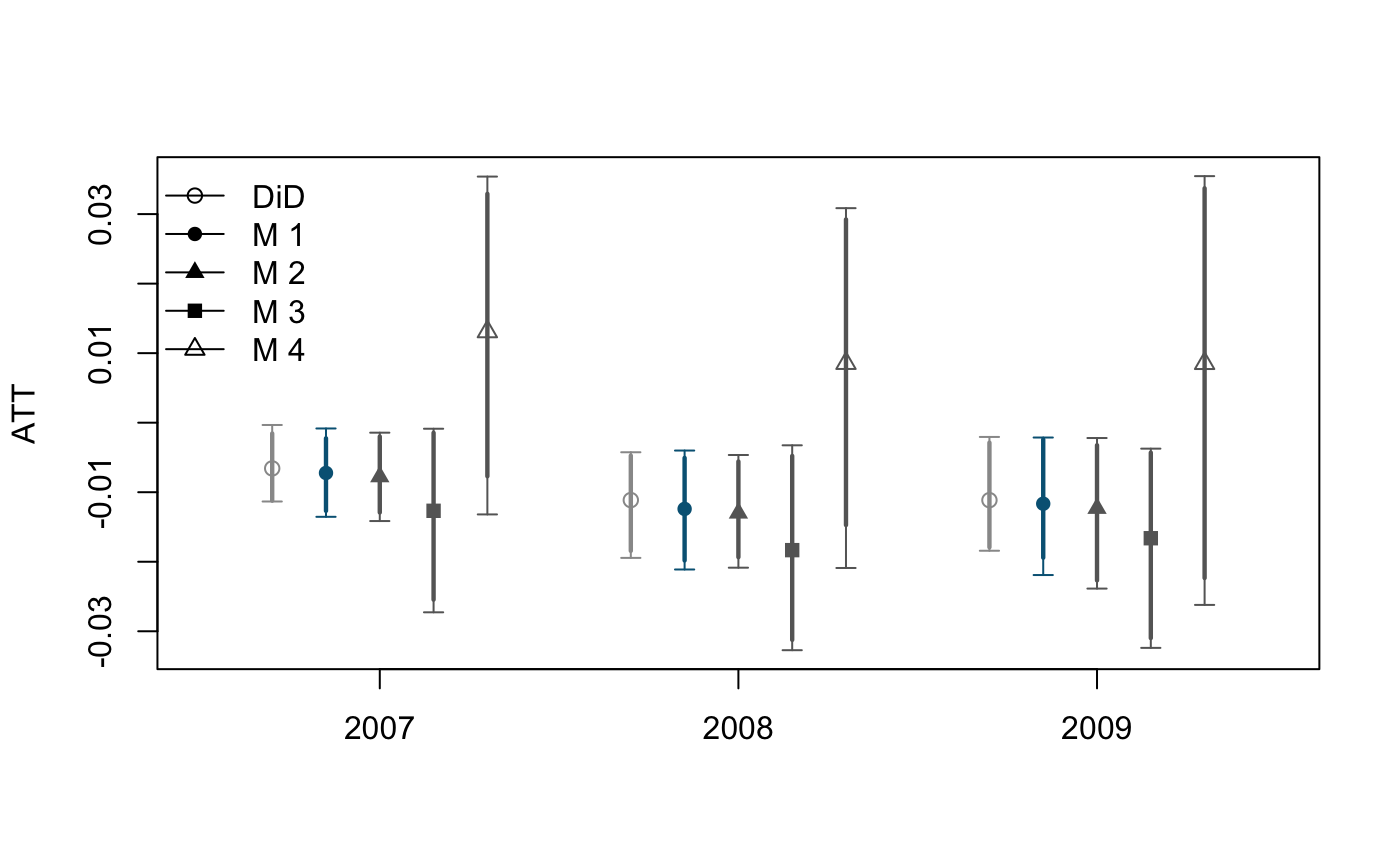
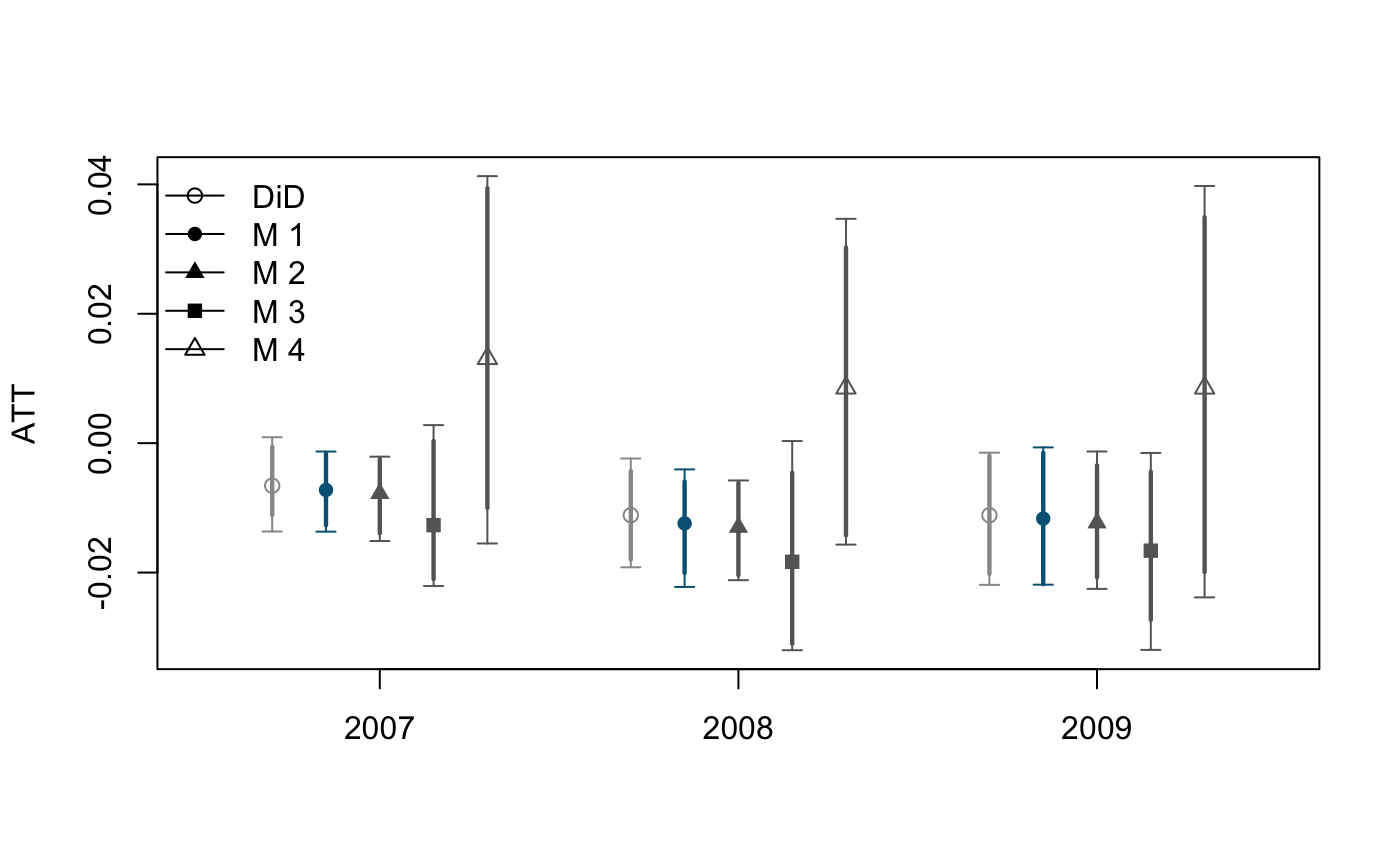
add selection plot

diff --git a/docs/reference/did_plot_selection.html b/docs/reference/did_plot_selection.html
@@ -6,7 +6,7 @@
 <meta http-equiv="X-UA-Compatible" content="IE=edge">
 <meta name="viewport" content="width=device-width, initial-scale=1.0">
 
-<title>DiD plot — did_plot • DIDdesign</title>
+<title>Plot function for selection — did_plot_selection • DIDdesign</title>
 
 <!-- jquery -->
 <script src="https://cdnjs.cloudflare.com/ajax/libs/jquery/3.3.1/jquery.min.js" integrity="sha256-FgpCb/KJQlLNfOu91ta32o/NMZxltwRo8QtmkMRdAu8=" crossorigin="anonymous"></script>
@@ -30,9 +30,9 @@
 
 
 
-<meta property="og:title" content="DiD plot — did_plot" />
+<meta property="og:title" content="Plot function for selection — did_plot_selection" />
 
-<meta property="og:description" content="Generate a plot for difference-in-differences design." />
+<meta property="og:description" content="Plot function for selection" />
 <meta name="twitter:card" content="summary" />
 
 
@@ -105,69 +105,33 @@
 <div class="row">
   <div class="col-md-9 contents">
     <div class="page-header">
-    <h1>DiD plot</h1>
+    <h1>Plot function for selection</h1>
     <small class="dont-index">Source: <a href='https://github.com/naoki-egami/DIDdesign/blob/master/R/did-plot.R'><code>R/did-plot.R</code></a></small>
-    <div class="hidden name"><code>did_plot.Rd</code></div>
+    <div class="hidden name"><code>did_plot_selection.Rd</code></div>
     </div>
 
     <div class="ref-description">
     
-    <p>Generate a plot for difference-in-differences design.</p>
+    <p>Plot function for selection</p>
     
     </div>
 
-    <pre class="usage"><span class='fu'>did_plot</span>(<span class='no'>formula</span>, <span class='no'>data</span>, <span class='no'>post_treatment</span>, <span class='kw'>id_subject</span> <span class='kw'>=</span> <span class='kw'>NULL</span>, <span class='no'>id_time</span>,
-  <span class='kw'>diff_order</span> <span class='kw'>=</span> <span class='fl'>0</span>, <span class='kw'>xlim</span> <span class='kw'>=</span> <span class='kw'>NULL</span>, <span class='kw'>ylim</span> <span class='kw'>=</span> <span class='kw'>NULL</span>, <span class='kw'>col</span> <span class='kw'>=</span> <span class='kw'>NULL</span>,
-  <span class='kw'>loc</span> <span class='kw'>=</span> <span class='kw'>NULL</span>, <span class='kw'>lwd</span> <span class='kw'>=</span> <span class='kw'>NULL</span>, <span class='no'>...</span>)</pre>
+    <pre class="usage"><span class='fu'>did_plot_selection</span>(<span class='no'>data</span>, <span class='kw'>alpha</span> <span class='kw'>=</span> <span class='fl'>0.05</span>, <span class='kw'>equivalence</span> <span class='kw'>=</span> <span class='fl'>TRUE</span>, <span class='kw'>eL</span> <span class='kw'>=</span> <span class='kw'>NULL</span>,
+  <span class='kw'>eU</span> <span class='kw'>=</span> <span class='kw'>NULL</span>, <span class='kw'>xlim</span> <span class='kw'>=</span> <span class='kw'>NULL</span>, <span class='kw'>ylim</span> <span class='kw'>=</span> <span class='kw'>NULL</span>, <span class='kw'>col</span> <span class='kw'>=</span> <span class='kw'>NULL</span>, <span class='kw'>loc</span> <span class='kw'>=</span> <span class='kw'>NULL</span>,
+  <span class='no'>...</span>)</pre>
     
     <h2 class="hasAnchor" id="arguments"><a class="anchor" href="#arguments"></a>Arguments</h2>
     <table class="ref-arguments">
     <colgroup><col class="name" /><col class="desc" /></colgroup>
     <tr>
-      <th>formula</th>
-      <td><p><code>outcome ~ treatment</code>.</p></td>
-    </tr>
-    <tr>
       <th>data</th>
-      <td><p>data set</p></td>
+      <td><p><code>diddesign</code> object.
+Typically, it is an output from <code><a href='did.html'>did</a></code> function.</p></td>
     </tr>
     <tr>
-      <th>post_treatment</th>
-      <td><p>a vector of time index indicating post treatment periods.</p></td>
-    </tr>
-    <tr>
-      <th>id_subject</th>
-      <td><p>a variable name of unit index.
-This should be left as <code>NULL</code> when repeated cross-section data is used.</p></td>
-    </tr>
-    <tr>
-      <th>id_time</th>
-      <td><p>a variable name of time index.</p></td>
-    </tr>
-    <tr>
-      <th>diff_order</th>
-      <td><p>Order of differences. <code>diff_order = 0</code> generates a plot based on the original outcome.
-<code>diff_order = 1</code> generates a plot based on differenced outcomes.</p></td>
-    </tr>
-    <tr>
-      <th>xlim</th>
-      <td><p>xlim</p></td>
-    </tr>
-    <tr>
-      <th>ylim</th>
-      <td><p>ylim</p></td>
-    </tr>
-    <tr>
-      <th>col</th>
-      <td><p>col</p></td>
-    </tr>
-    <tr>
-      <th>loc</th>
-      <td><p>Location of legend. See <code><a href='https://www.rdocumentation.org/packages/graphics/topics/legend'>legend</a></code>.</p></td>
-    </tr>
-    <tr>
-      <th>lwd</th>
-      <td><p>Line width.</p></td>
+      <th>alpha</th>
+      <td><p>Level of rejection.
+Confidence intervals are constructed with the 1-alpha and 1 - alpha/2 levels.</p></td>
     </tr>
     </table>
     
@@ -179,24 +143,18 @@ This should be left as <code>NULL</code> when repeated cross-section data is use
 <span class='co'># load data</span>
 <span class='fu'><a href='https://www.rdocumentation.org/packages/utils/topics/data'>data</a></span>(<span class='no'>anzia2012</span>)
 
-<span class='co'># original series</span>
-<span class='fu'>did_plot</span>(<span class='no'>lnavgsalary_cpi</span> ~ <span class='no'>oncycle</span>, <span class='kw'>data</span> <span class='kw'>=</span> <span class='no'>anzia2012</span>,
-  <span class='kw'>post_treatment</span> <span class='kw'>=</span> <span class='fu'><a href='https://www.rdocumentation.org/packages/base/topics/c'>c</a></span>(<span class='fl'>2007</span>, <span class='fl'>2008</span>, <span class='fl'>2009</span>),
-  <span class='kw'>id_subject</span> <span class='kw'>=</span> <span class='st'>"district"</span>,
-  <span class='kw'>id_time</span> <span class='kw'>=</span> <span class='st'>"year"</span>,
-  <span class='kw'>ylim</span> <span class='kw'>=</span> <span class='fu'><a href='https://www.rdocumentation.org/packages/base/topics/c'>c</a></span>(<span class='fl'>10.55</span>, <span class='fl'>10.8</span>),
-  <span class='kw'>diff_order</span> <span class='kw'>=</span> <span class='fl'>0</span>,
-  <span class='kw'>main</span> <span class='kw'>=</span> <span class='st'>'Original Series'</span>
-)</div><div class='img'><img src='did_plot-1.png' alt='' width='700' height='433' /></div><div class='input'>
-<span class='co'># differenced series</span>
-<span class='fu'>did_plot</span>(<span class='no'>lnavgsalary_cpi</span> ~ <span class='no'>oncycle</span>, <span class='kw'>data</span> <span class='kw'>=</span> <span class='no'>anzia2012</span>,
-  <span class='kw'>post_treatment</span> <span class='kw'>=</span> <span class='fu'><a href='https://www.rdocumentation.org/packages/base/topics/c'>c</a></span>(<span class='fl'>2007</span>, <span class='fl'>2008</span>, <span class='fl'>2009</span>),
-  <span class='kw'>id_subject</span> <span class='kw'>=</span> <span class='st'>"district"</span>,
-  <span class='kw'>id_time</span> <span class='kw'>=</span> <span class='st'>"year"</span>,
-  <span class='kw'>ylim</span> <span class='kw'>=</span> <span class='fu'><a href='https://www.rdocumentation.org/packages/base/topics/c'>c</a></span>(-<span class='fl'>0.05</span>, <span class='fl'>0.05</span>),
-  <span class='kw'>diff_order</span> <span class='kw'>=</span> <span class='fl'>1</span>,
-  <span class='kw'>main</span> <span class='kw'>=</span> <span class='st'>'Differenced Series'</span>
-)</div><div class='img'><img src='did_plot-2.png' alt='' width='700' height='433' /></div></pre>
+<span class='co'># fit the model</span>
+<span class='no'>fit1</span> <span class='kw'>&lt;-</span> <span class='fu'><a href='did.html'>did</a></span>(<span class='no'>lnavgsalary_cpi</span> ~ <span class='no'>oncycle</span>, <span class='kw'>data</span> <span class='kw'>=</span> <span class='no'>anzia2012</span>,
+            <span class='kw'>id_subject</span> <span class='kw'>=</span> <span class='st'>"district"</span>, <span class='kw'>id_time</span> <span class='kw'>=</span> <span class='st'>"year"</span>,
+            <span class='kw'>post_treatment</span> <span class='kw'>=</span> <span class='fu'><a href='https://www.rdocumentation.org/packages/base/topics/c'>c</a></span>(<span class='fl'>2007</span>, <span class='fl'>2008</span>, <span class='fl'>2009</span>),
+            <span class='kw'>method</span> <span class='kw'>=</span> <span class='st'>"parametric"</span>)</div><div class='output co'>#&gt; 
+#&gt; ... estimating treatment effect for  2007  ...
+#&gt; 
+#&gt; ... estimating treatment effect for  2008  ...
+#&gt; 
+#&gt; ... estimating treatment effect for  2009  ...</div><div class='input'>
+<span class='co'># plot</span>
+<span class='fu'>did_plot_selection</span>(<span class='no'>fit1</span>, <span class='kw'>equivalence</span> <span class='kw'>=</span> <span class='fl'>TRUE</span>, <span class='kw'>eL</span> <span class='kw'>=</span> -<span class='fl'>0.005</span>, <span class='kw'>eU</span> <span class='kw'>=</span> <span class='fl'>0.005</span>)</div><div class='output co'>#&gt; <span class='error'>Error in did_plot_selection(fit1, equivalence = TRUE, eL = -0.005, eU = 0.005): could not find function "did_plot_selection"</span></div></pre>
   </div>
   <div class="col-md-3 hidden-xs hidden-sm" id="sidebar">
     <h2>Contents</h2>

diff --git a/docs/articles/articles/diddesign.html b/docs/articles/articles/diddesign.html
@@ -73,7 +73,7 @@
     <div class="page-header toc-ignore">
       <h1>Example Usage (Panel Data)</h1>
             
-            <h4 class="date">2019-03-03</h4>
+            <h4 class="date">2019-03-04</h4>
       
       <small class="dont-index">Source: <a href="https://github.com/naoki-egami/DIDdesign/blob/master/vignettes/articles/diddesign.Rmd"><code>vignettes/articles/diddesign.Rmd</code></a></small>
       <div class="hidden name"><code>diddesign.Rmd</code></div>
@@ -144,12 +144,12 @@ fit_np &lt;-<span class="st"> </span><span class="kw"><a href="../../reference/d
 <span class="kw"><a href="https://www.rdocumentation.org/packages/base/topics/summary">summary</a></span>(fit_np)
 <span class="co">#&gt;                                2007             2008             2009</span>
 <span class="co">#&gt; 1   D-DiD      ATT           -0.007           -0.012           -0.012</span>
-<span class="co">#&gt; 2           95% CI [-0.014, -0.001] [-0.021, -0.004] [-0.022, -0.002]</span>
+<span class="co">#&gt; 2           95% CI [-0.014, -0.001] [-0.022, -0.004] [-0.022, -0.001]</span>
 <span class="co">#&gt; 3              BIC          -18.018          -18.018          -18.018</span>
 <span class="co">#&gt; 4             HQIC           -9.147           -9.147           -9.147</span>
 <span class="co">#&gt; 5         Selected               M1               M1               M1</span>
 <span class="co">#&gt; 6 Std-DiD      ATT           -0.007           -0.011           -0.011</span>
-<span class="co">#&gt; 7           95% CI      [-0.011, 0] [-0.019, -0.004] [-0.018, -0.002]</span>
+<span class="co">#&gt; 7           95% CI  [-0.014, 0.001] [-0.019, -0.002] [-0.022, -0.001]</span>
 
 
 <span class="co"># plot results</span>

diff --git a/docs/reference/fe_selection.html b/docs/reference/fe_selection.html
@@ -117,12 +117,34 @@
     </div>
 
     <pre class="usage"><span class='fu'>fe_selection</span>(<span class='no'>data</span>, <span class='no'>fm_list</span>, <span class='no'>post_time</span>, <span class='kw'>alpha</span> <span class='kw'>=</span> <span class='fl'>0.05</span>)</pre>
-        
+    
+    <h2 class="hasAnchor" id="arguments"><a class="anchor" href="#arguments"></a>Arguments</h2>
+    <table class="ref-arguments">
+    <colgroup><col class="name" /><col class="desc" /></colgroup>
+    <tr>
+      <th>data</th>
+      <td><p>panel data from <code>diddesign_data</code> object.</p></td>
+    </tr>
+    <tr>
+      <th>fm_list</th>
+      <td><p>A list of formulae from <code>diddesign_data</code> object.</p></td>
+    </tr>
+    <tr>
+      <th>post_time</th>
+      <td><p>Time index for the post Treatment period.</p></td>
+    </tr>
+    <tr>
+      <th>alpha</th>
+      <td><p>Level of rejection. Default is at the 5% level</p></td>
+    </tr>
+    </table>
+    
 
   </div>
   <div class="col-md-3 hidden-xs hidden-sm" id="sidebar">
     <h2>Contents</h2>
     <ul class="nav nav-pills nav-stacked">
+      <li><a href="#arguments">Arguments</a></li>
                 </ul>
 
   </div>
